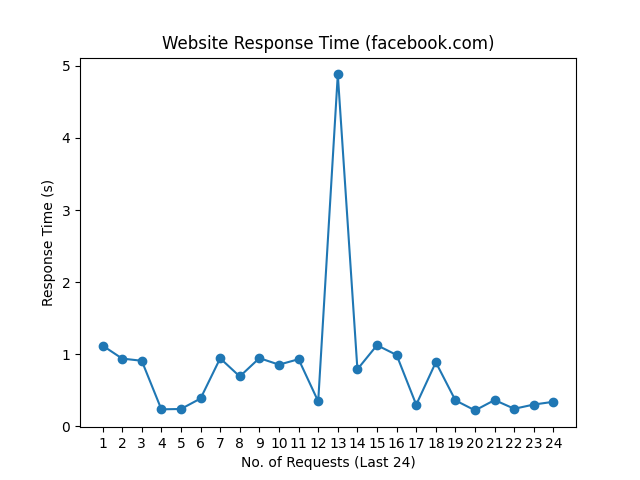
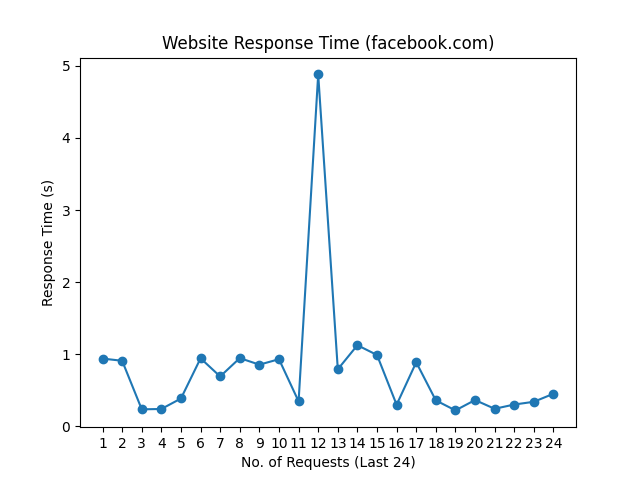
update README.md, history and graph

Changed region(s): [[0.1562, 0.125, 0.875, 0.875]]

diff --git a/README.md b/README.md
@@ -1,10 +1,10 @@
 # Web Monitoring
 
-Last Checked: 02/04/2024 09:03
+Last Checked: 03/04/2024 08:59
 
 | Website | Response Time (s) | Status | Avg Uptime (%) |
 |---------|-------------------|--------|----------------|
 | www.thiswebsiteisdown.net | 0 <br> <img src="graph/thiswebsiteisdown.net.png" alt="Graph" width="200" height="200">  | ❌ Down | 0.00 |
-| www.netflix.com | 0.699664 <br> <img src="graph/netflix.com.png" alt="Graph" width="200" height="200">  | ✅ Up | 100.00 |
-| www.google.com | 0.082942 <br> <img src="graph/google.com.png" alt="Graph" width="200" height="200">  | ✅ Up | 100.00 |
-| www.facebook.com | 0.339660 <br> <img src="graph/facebook.com.png" alt="Graph" width="200" height="200">  | ✅ Up | 100.00 |
+| www.netflix.com | 0.637232 <br> <img src="graph/netflix.com.png" alt="Graph" width="200" height="200">  | ✅ Up | 100.00 |
+| www.google.com | 0.128532 <br> <img src="graph/google.com.png" alt="Graph" width="200" height="200">  | ✅ Up | 100.00 |
+| www.facebook.com | 0.451220 <br> <img src="graph/facebook.com.png" alt="Graph" width="200" height="200">  | ✅ Up | 100.00 |
